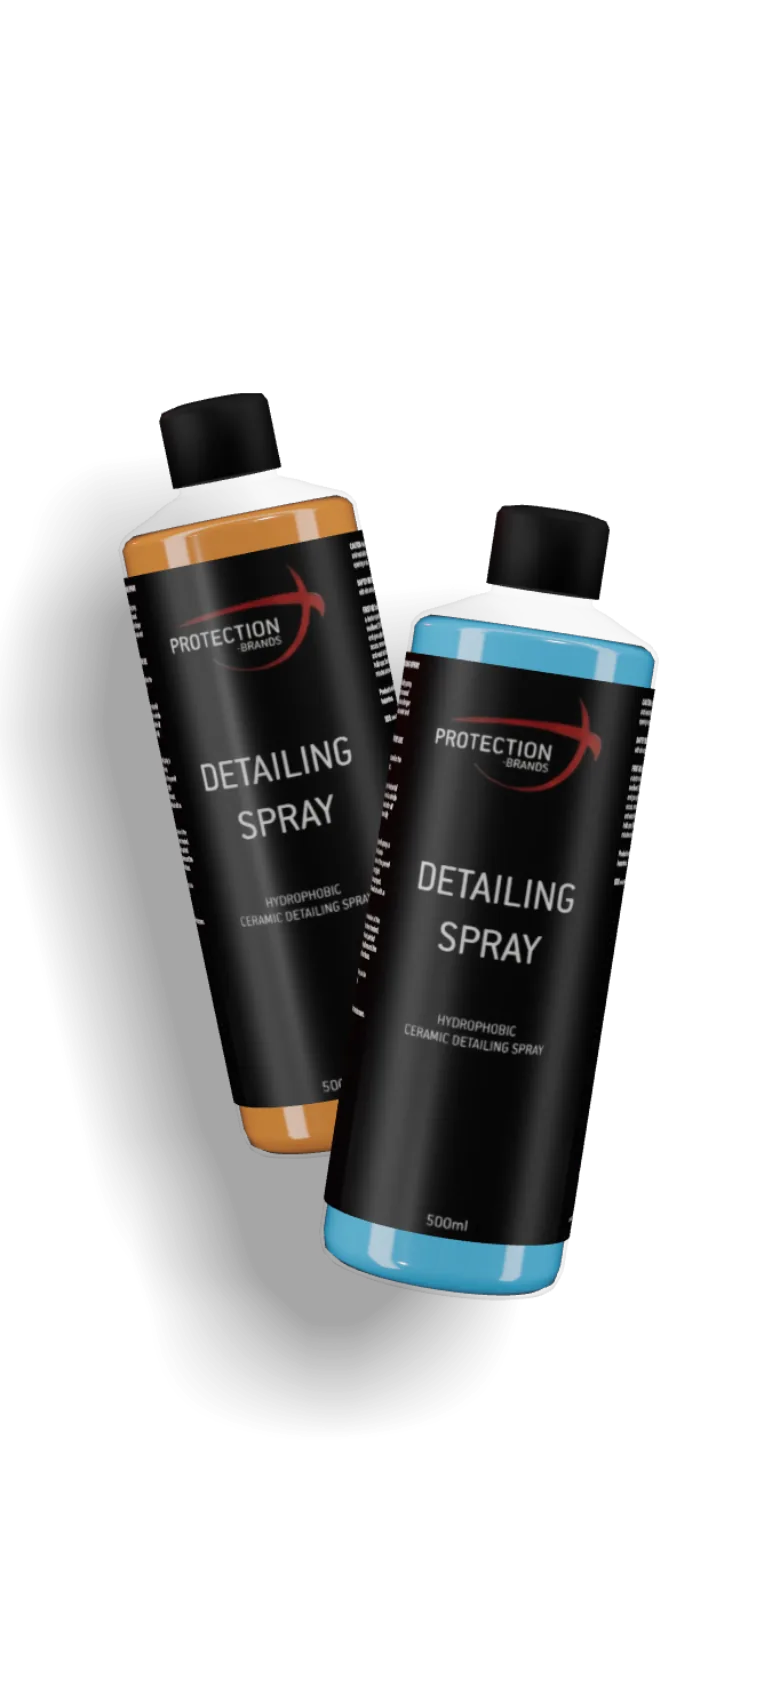
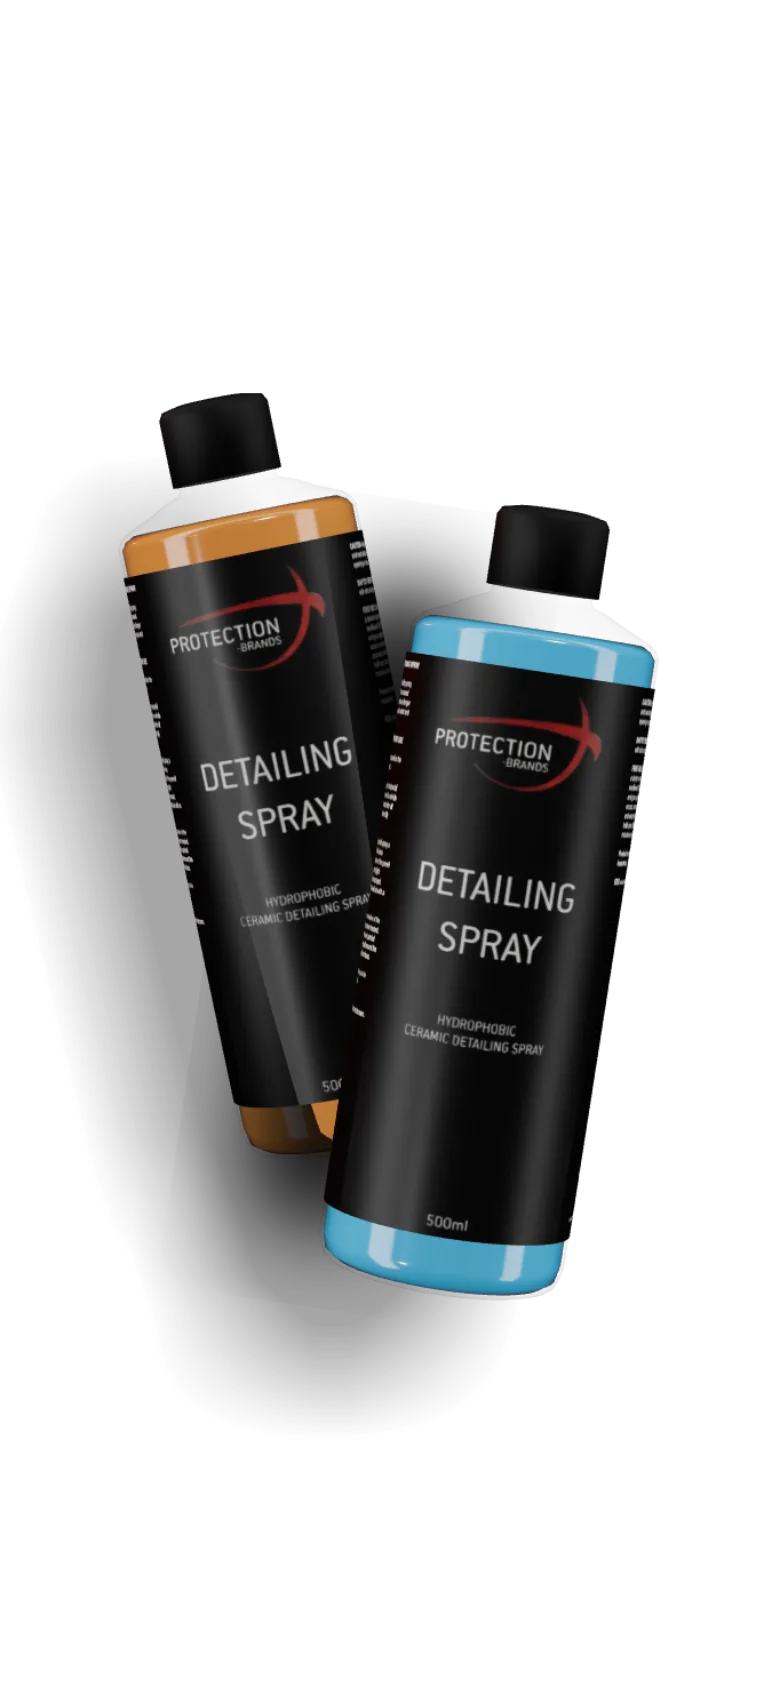
Hero: blue bottle shadows the amber one; flicker-free still-to-3D swap
Soft shadow: a blurred dark plane attached behind the blue bottle's left edge
dims the amber bottle's liquid, print and sheen where they overlap (a lit
shadow can't show on the black label). Opacity follows Shadow darkness.
Swap: the 3D replaces the still only after the still's drop-in finishes, in a
single frame with no crossfade, drawn in the still's pose; float and mouse
follow start after. Stills re-rendered with the shadow, wide at 2x
(4320x1800, 97 KB), phone 64 KB.

Changed region(s): [[0.4308, 0.3081, 0.6769, 0.5237], [0.2769, 0.5853, 0.4308, 0.7701]]

diff --git a/assets/pb-hero-bottle.js b/assets/pb-hero-bottle.js
@@ -194,6 +194,24 @@ class PBHeroBottle extends HTMLElement {
       group.position.set(...spec.position);
       group.rotation.set(...spec.tilt);
       this.#scene.add(group);
+      // The front bottle casts a soft shadow onto the one behind it. A lit shadow can't show
+      // on the black label, so this is a blurred dark shape behind its left edge that dims the
+      // amber bottle's liquid, print and sheen where they overlap. It moves with the bottle.
+      if (index === 1) {
+        const shade = new THREE.Mesh(
+          new THREE.PlaneGeometry(2.4, 6.6),
+          new THREE.MeshBasicMaterial({
+            map: softShadowTexture(THREE),
+            transparent: true,
+            opacity: Math.min(0.9, look.shadow * 2.6),
+            depthWrite: false,
+          })
+        );
+        shade.position.set(-1.05, -0.25, -0.15);
+        shade.renderOrder = 3;
+        group.add(shade);
+      }
+
       this.#bottles.push({ group, spec });
     });
 
@@ -207,11 +225,22 @@ class PBHeroBottle extends HTMLElement {
       return;
     }
 
-    this.#listen();
-    // With a still image on screen, the still did the entrance; the 3D takes over in place.
-    if (!this.classList.contains('pb-hero-bottle--has-poster')) this.#introStart = performance.now() / 1000;
+    const hasPoster = this.classList.contains('pb-hero-bottle--has-poster');
+    if (!hasPoster) this.#introStart = performance.now() / 1000;
     this.#render(0);
+
+    if (hasPoster) {
+      // The still did the entrance. Swap to the 3D only once its drop-in has finished, and in
+      // a single frame (no crossfade): the 3D is drawn in the still's exact pose, so the two
+      // never show together. Float and mouse-follow start after the swap.
+      const poster = this.querySelector('.pb-hero-bottle__poster');
+      await Promise.all((poster?.getAnimations() ?? []).map((animation) => animation.finished.catch(() => {})));
+      if (this.#disposed) return;
+      this.#render(0);
+    }
+
     this.classList.add('is-ready');
+    this.#listen();
   }
 
   #addLights(THREE, look) {
@@ -398,6 +427,22 @@ class PBHeroBottle extends HTMLElement {
 }
 
 const THREE_DEG = (degrees) => (degrees * Math.PI) / 180;
+
+/* A soft, dark, bottle-shaped blur on a transparent canvas, for the front bottle's shadow. */
+function softShadowTexture(THREE) {
+  const canvas = document.createElement('canvas');
+  canvas.width = 128;
+  canvas.height = 320;
+  const context = canvas.getContext('2d');
+  context.filter = 'blur(18px)';
+  context.fillStyle = '#000';
+  context.beginPath();
+  context.roundRect(30, 30, 68, 260, 30);
+  context.fill();
+  const texture = new THREE.CanvasTexture(canvas);
+  texture.colorSpace = THREE.SRGBColorSpace;
+  return texture;
+}
 
 function loadTexture(THREE, url) {
   const loader = new THREE.TextureLoader();
